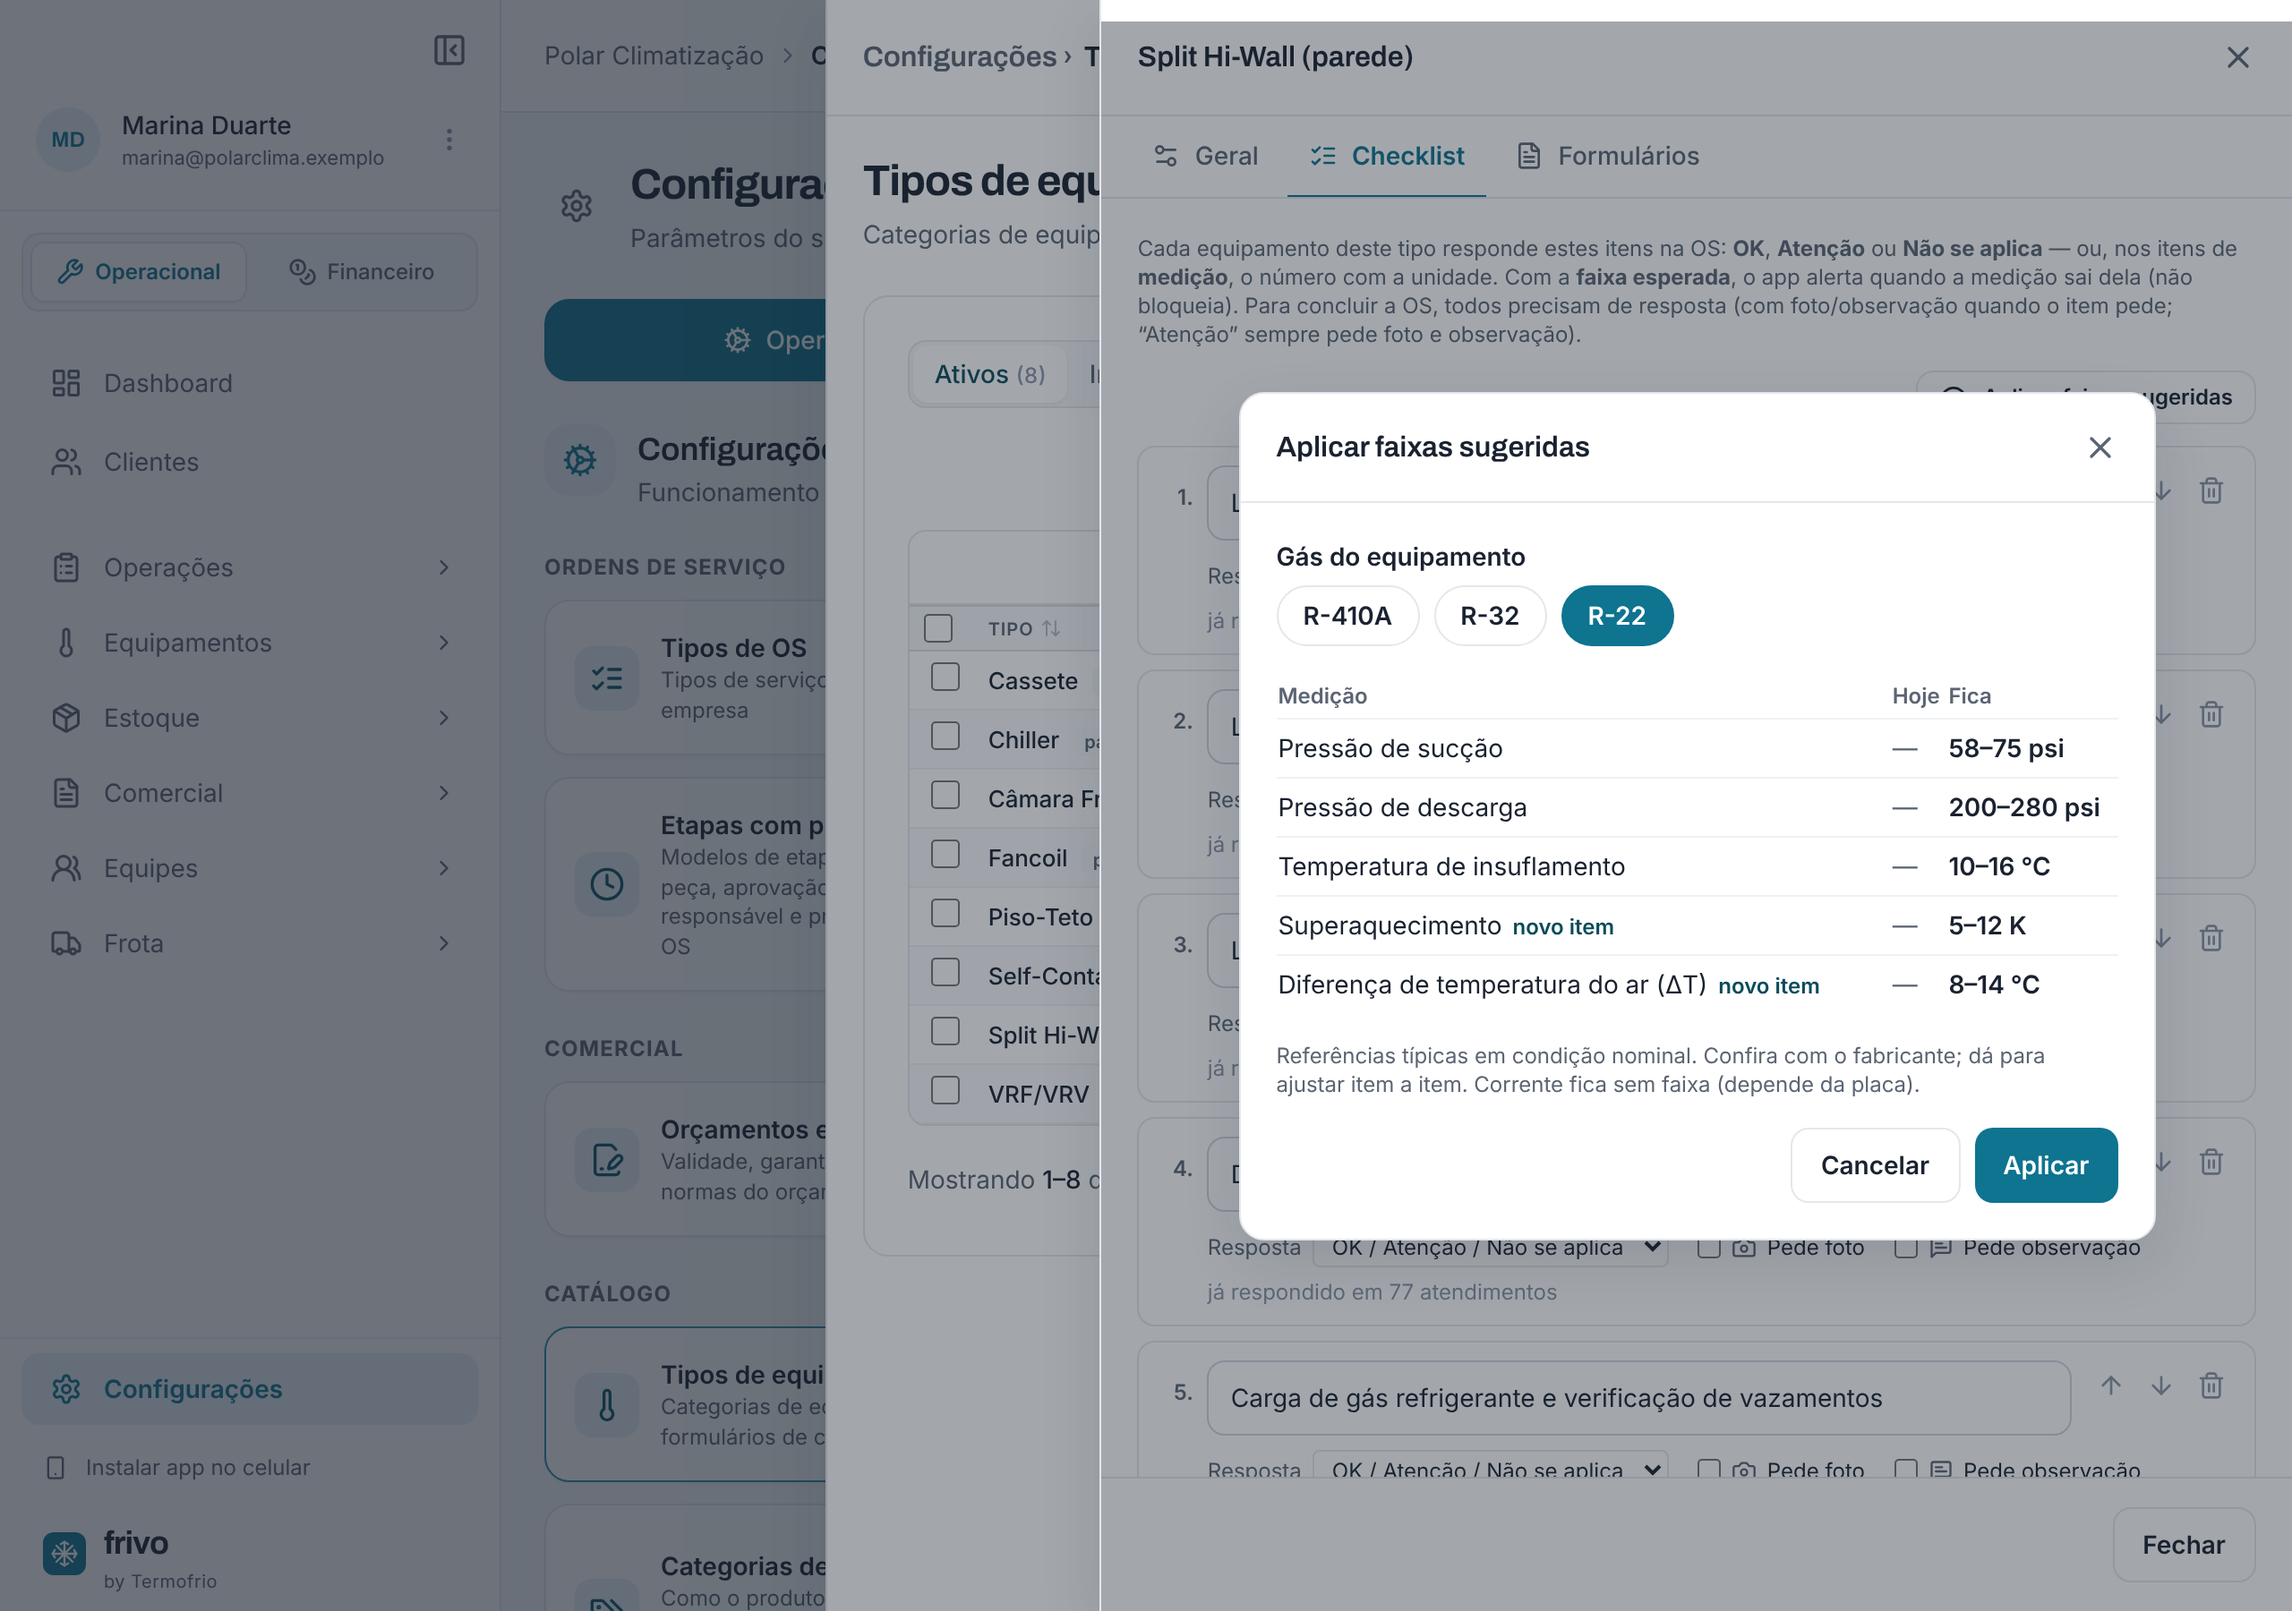
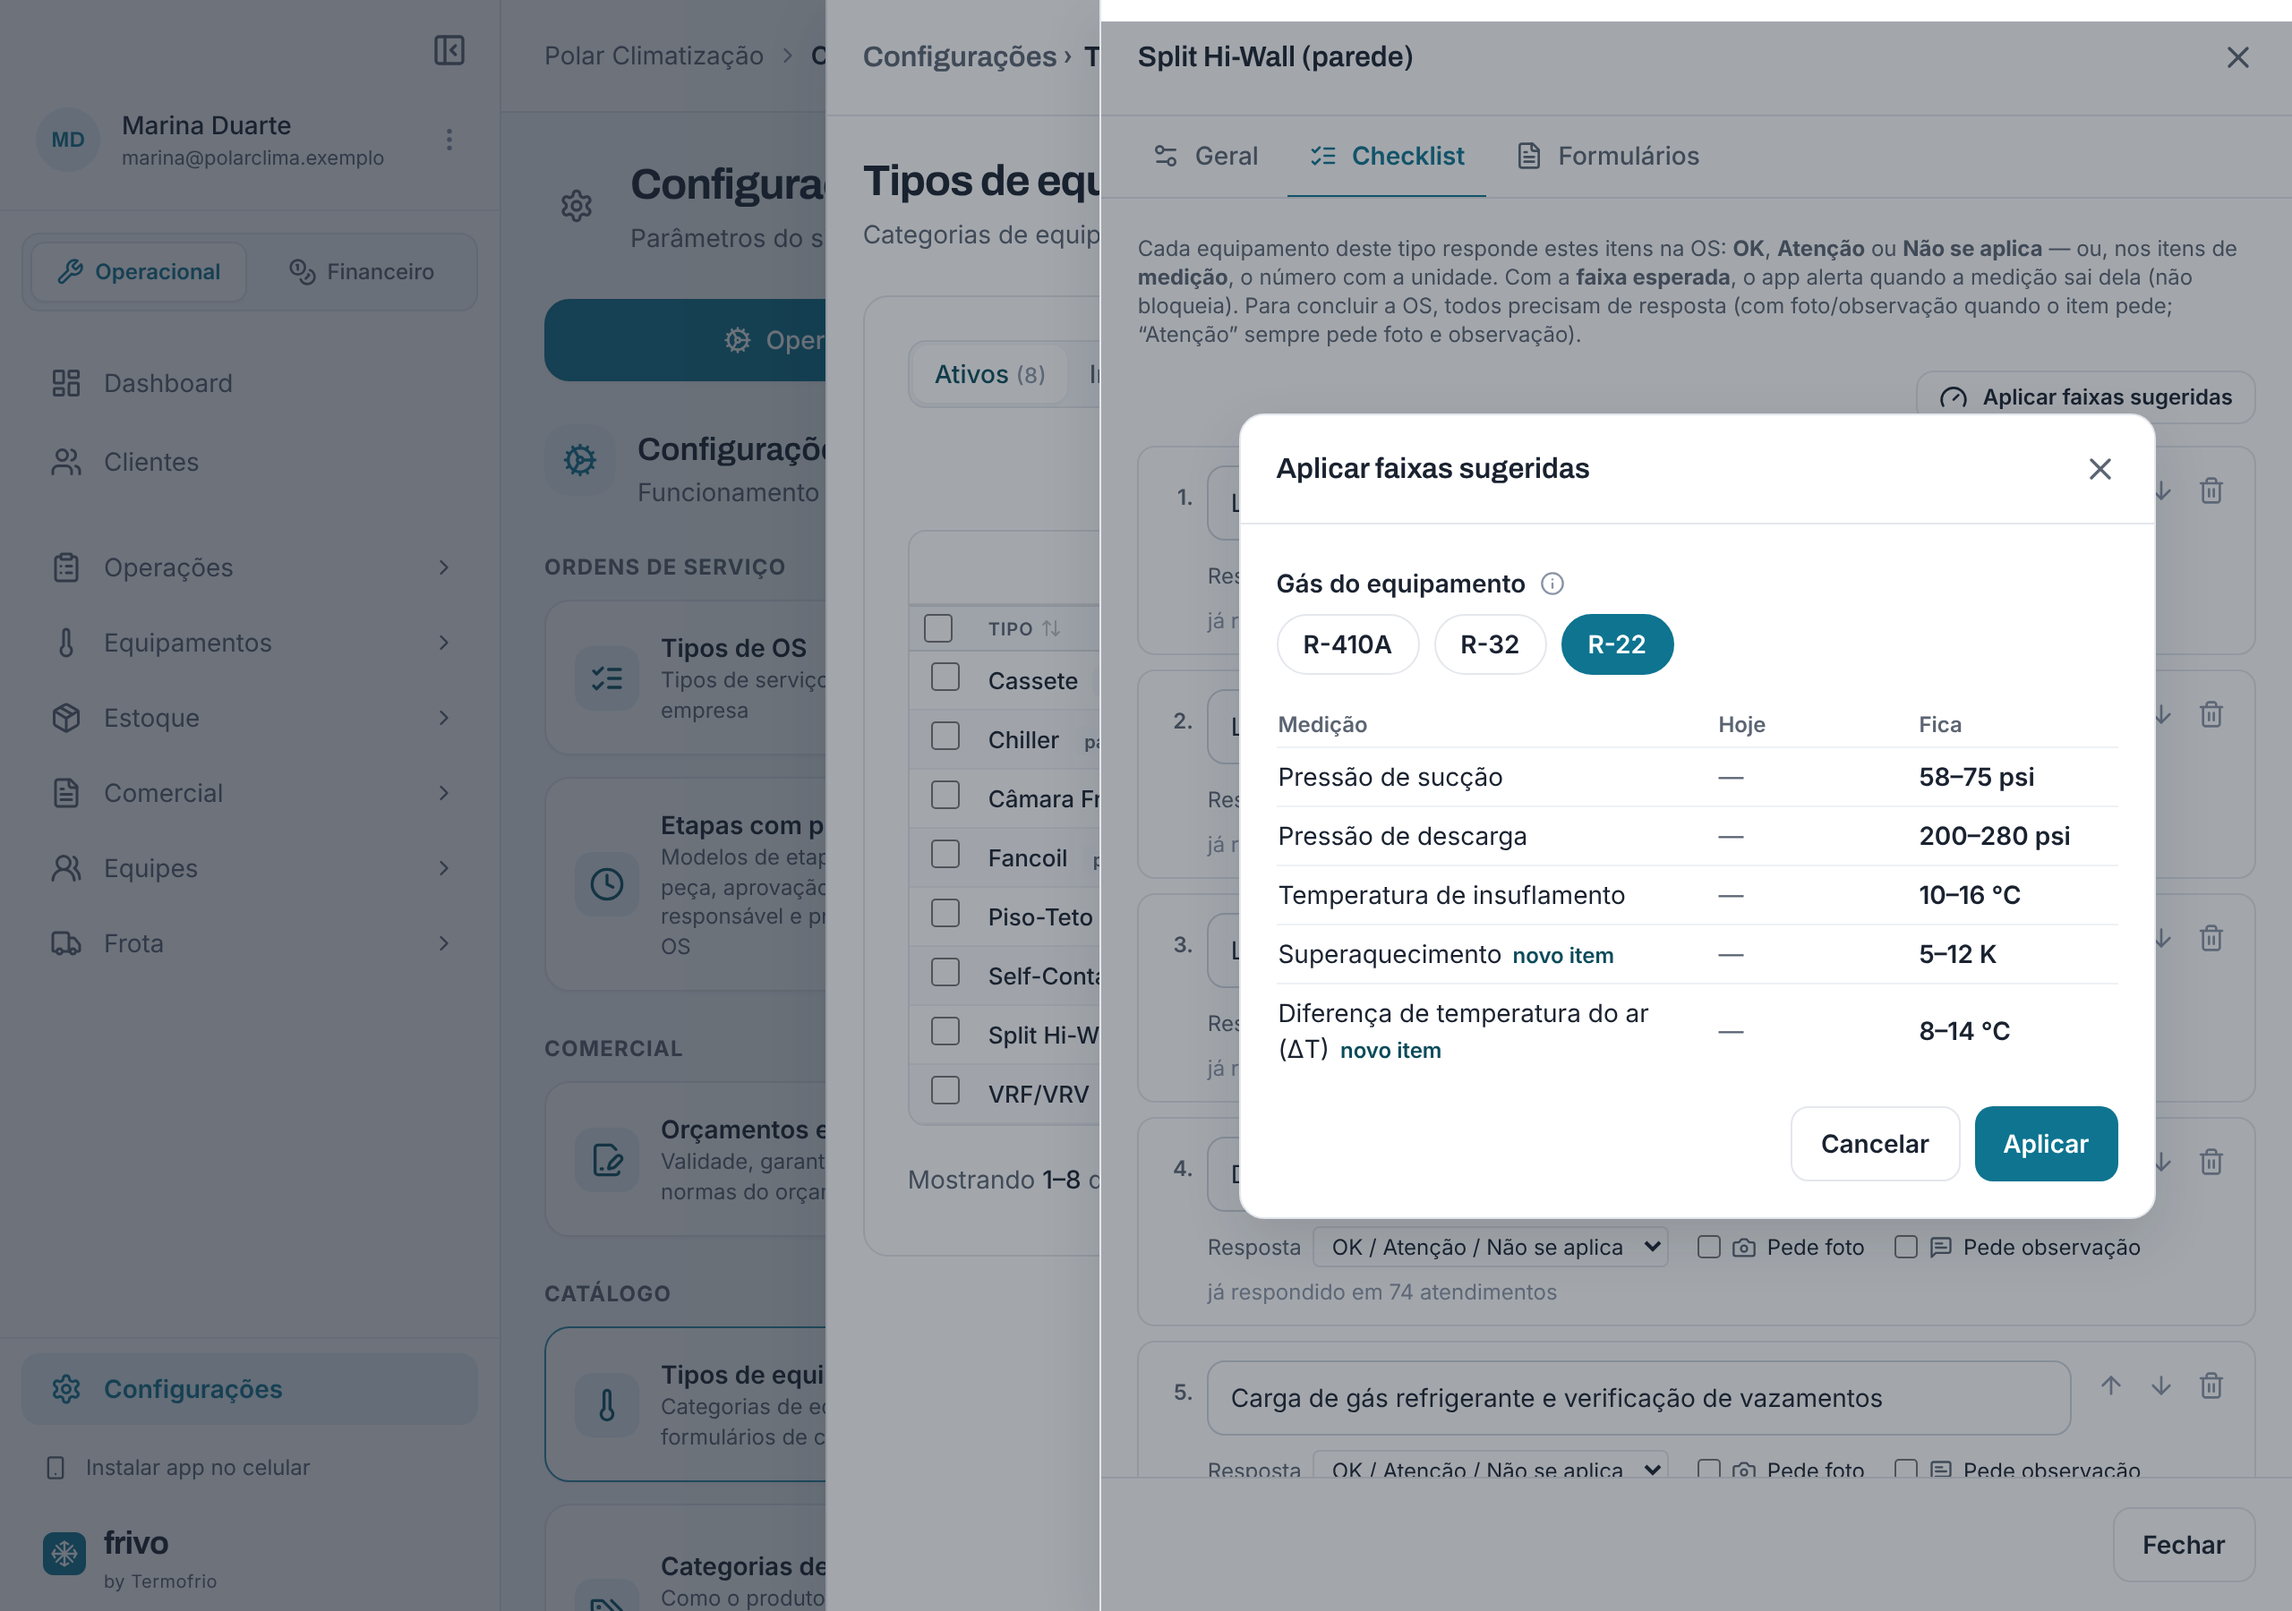
App de campo, leva 3 (PR A): aviso das faixas sugeridas vira dica (convenção textoLongo); prints refeitos
Claude-Session: https://claude.ai/code/session_01HN9DusJjuNk9mHea6vas29

diff --git a/components/cadastros/editores/checklist-tipo.tsx b/components/cadastros/editores/checklist-tipo.tsx
@@ -5,6 +5,7 @@ import { ArrowDown, ArrowUp, Calculator, Camera, Check, Gauge, ListChecks, Messa
 import { Button } from "@/components/ui/button";
 import { Input } from "@/components/ui/input";
 import { Modal } from "@/components/ui/modal";
+import { Dica } from "@/components/ui/dica";
 import { cn } from "@/lib/utils";
 import { UNIDADES_SUGERIDAS, type TipoRespostaItem } from "@/lib/checklist/tipo";
 import {
@@ -242,7 +243,9 @@ function ModalFaixas({ itens, onFechar, onAplicar }: { itens: ItemTela[]; onFech
     <Modal aberto titulo="Aplicar faixas sugeridas" onFechar={onFechar}>
       <div className="space-y-4" data-modal-faixas>
         <div className="space-y-1.5">
-          <p className="text-sm font-semibold text-ink">Gás do equipamento</p>
+          <p className="text-sm font-semibold text-ink inline-flex items-center gap-1.5">Gás do equipamento
+            <Dica rotulo="Faixas sugeridas" texto="Referências típicas em condição nominal. Confira com o fabricante; dá para ajustar item a item. Corrente fica sem faixa (depende da placa)." />
+          </p>
           <div className="flex flex-wrap gap-2" role="radiogroup" aria-label="Gás">
             {GASES.map((g) => (
               <button key={g} type="button" role="radio" aria-checked={gas === g} onClick={() => setGas(g)} data-gas={g}
@@ -255,7 +258,6 @@ function ModalFaixas({ itens, onFechar, onAplicar }: { itens: ItemTela[]; onFech
         {r.mudancas.length === 0
           ? <p className="text-sm text-ink-muted" data-sem-mudancas>Nada a mudar: as medições reconhecidas já estão com a faixa sugerida.</p>
           : <TabelaMudancas mudancas={r.mudancas} />}
-        <p className="text-xs text-ink-muted">Referências típicas em condição nominal. Confira com o fabricante; dá para ajustar item a item. Corrente fica sem faixa (depende da placa).</p>
         <div className="flex justify-end gap-2">
           <Button type="button" variant="secondary" onClick={onFechar}>Cancelar</Button>
           <Button type="button" onClick={() => onAplicar(lista)} disabled={!r.mudancas.length} data-confirmar-faixas>Aplicar</Button>
